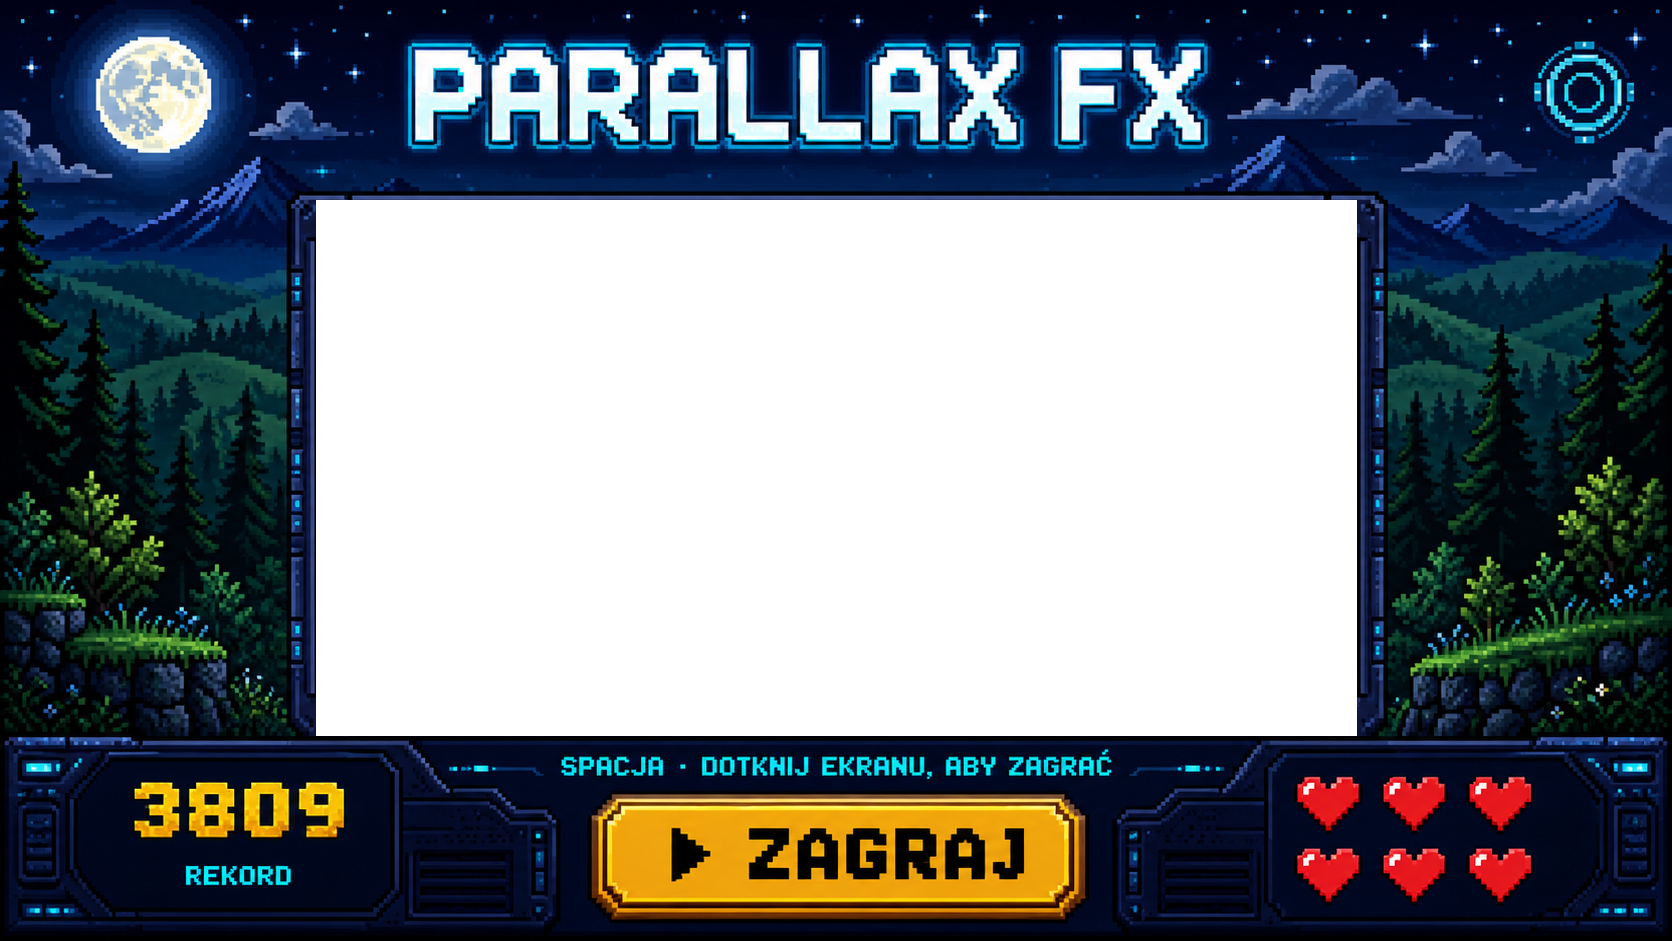
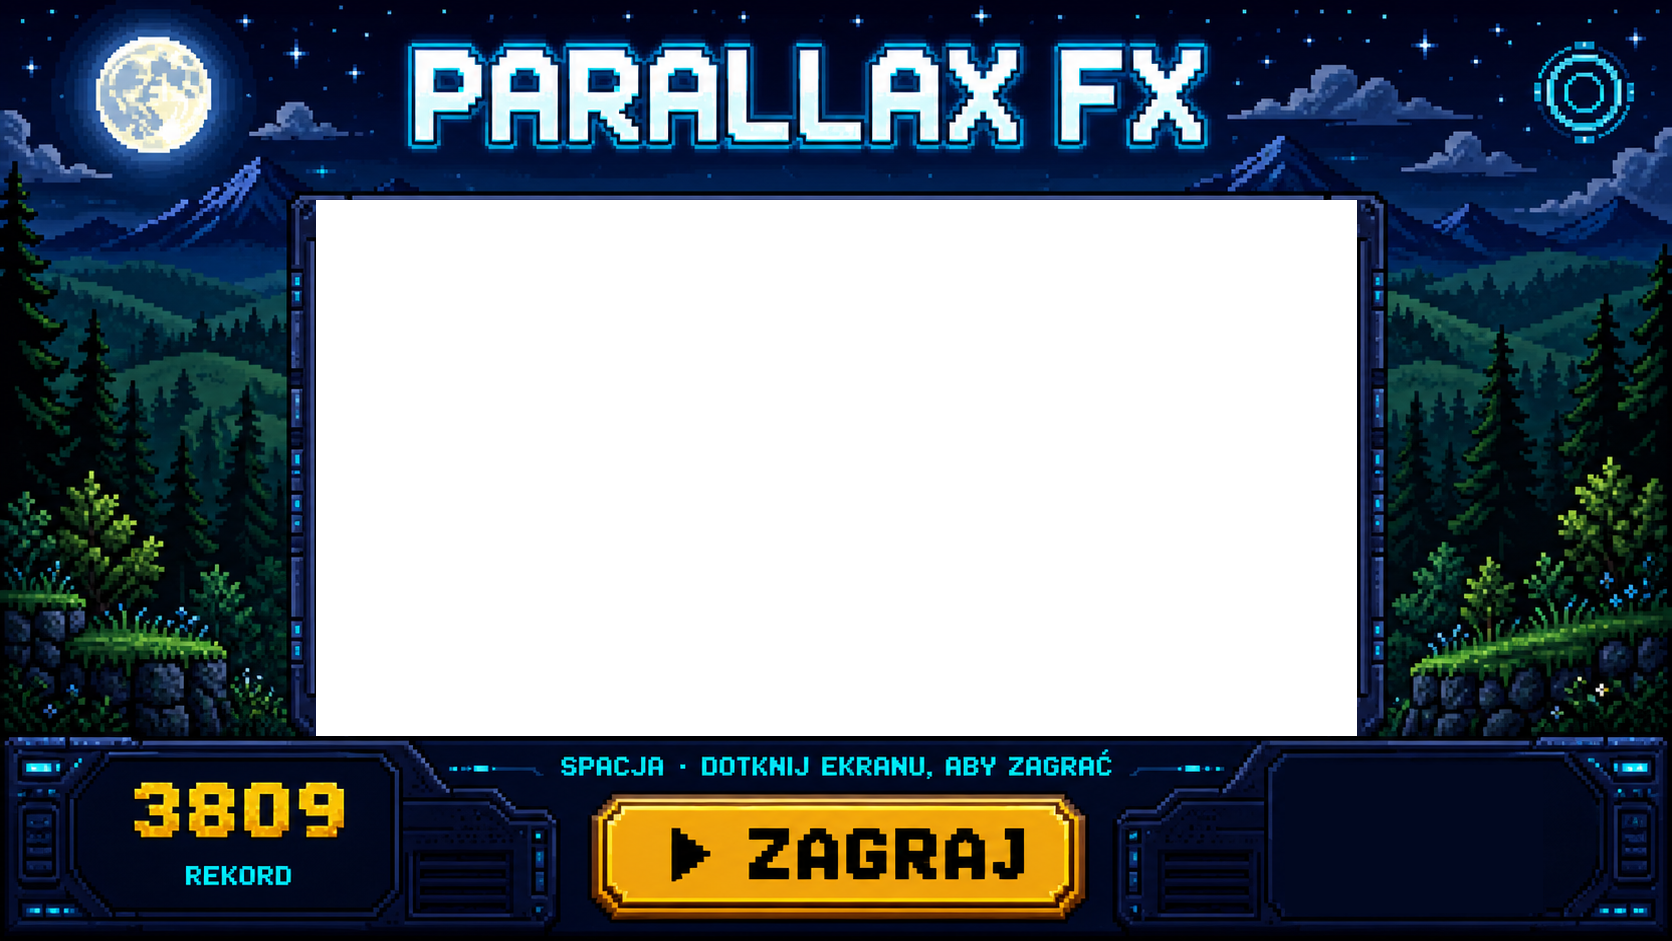
licznik zyc z png

Changed region(s): [[0.7775, 0.8013, 0.933, 0.9554]]

diff --git a/index.html b/index.html
@@ -37,6 +37,17 @@
     left: 16px;
   }
   .frame-art { position: absolute; inset: 0; width: 100%; height: 100%; z-index: 2; pointer-events: none; image-rendering: pixelated; }
+
+  /* Realny licznik żyć (serca) w miejscu, gdzie w grafice ramki (frame-art) kiedyś było
+     wypalone na sztywno 6 serc - te piksele zostały wymazane z obu PNG-ów (images/parallax-
+     frame-cutout*.png), a w ich miejsce wchodzi ta nakładka z 3 sercami (tyle ile realnie ma
+     gracz, patrz player.maxHp w player.js) zbudowana z images/artefacts/life-hearts.png i
+     zasilana prawdziwym stanem gry przez getLives() (patrz script niżej). Współrzędne %
+     odpowiadają dokładnie wymazanemu obszarowi na obrazku mobile (853x1844) - nadpisywane
+     w media query desktopowej dla parallax-frame-cutout-desktop.png (1672x941). */
+  .lives-hud { position: absolute; left: 58.38%; top: 87.20%; width: 34.82%; height: 10.85%; z-index: 2; display: flex; align-items: center; justify-content: center; gap: 4%; pointer-events: none; }
+  .lives-hud .heart-slot { height: 68%; aspect-ratio: 84 / 72; background-image: url('images/artefacts/life-hearts.png'); background-size: 300% 100%; background-position: 0 0; background-repeat: no-repeat; image-rendering: pixelated; transition: filter 0.15s ease, opacity 0.15s ease; }
+  .lives-hud .heart-slot.lost { filter: grayscale(1) brightness(0.45); opacity: 0.45; }
   #playHit { position: absolute; left: 11.9%; top: 77.5%; width: 75.9%; height: 9%; z-index: 3; cursor: pointer; animation: ctaPulse 2.2s ease-in-out infinite; }
   #playHit:hover { animation: none; filter: brightness(1.15); }
   #playHit.hidden { display: none; }
@@ -82,6 +93,12 @@
     #settingsBtn {
       display: none;
     }
+    .lives-hud {
+    left: 77.85%;
+    top: 83.3%;
+    width: 15.37%;
+    height: 10.62%;
+    }
     /* Fullscreen-w-trakcie-gry (wyżej) jest zamierzony wyłącznie dla mobile - tu wycięcie w
        ramce jest już wystarczająco duże, a zeskakiwanie do pełnego ekranu psułoby spójność
        z ekranem menu bez realnej korzyści. Te same selektory, wyżej w kaskadzie (media query
@@ -111,6 +128,11 @@
   <div class="card">
     <iframe id="gameFrame" src="game-demo.html" title="Podgląd gry"></iframe>
     <img class="frame-art" src="images/parallax-frame-cutout.png" alt="">
+    <div id="livesHud" class="lives-hud">
+      <div class="heart-slot"></div>
+      <div class="heart-slot"></div>
+      <div class="heart-slot"></div>
+    </div>
     <div id="playHit"></div>
     <div id="backBtn">← MENU</div>
     <div id="settingsBtn"><div></div></div>
@@ -120,6 +142,23 @@
   const gameFrame = document.getElementById('gameFrame');
   const playHit = document.getElementById('playHit');
   const backBtn = document.getElementById('backBtn');
+  const heartSlots = document.querySelectorAll('#livesHud .heart-slot');
+
+  // Odpytuje getLives() (game.js, wewnątrz iframe'a) co klatkę i przemalowuje serca na
+  // ramce startowej - działa zarówno w demie na ekranie menu, jak i w trakcie realnej gry
+  // (na desktopie ramka zostaje widoczna podczas gry, patrz #gameFrame.playing ~ .frame-art
+  // wyżej). Bezpośredni odczyt gameFrame.contentWindow zamiast postMessage: to ten sam
+  // origin (statyczne pliki lokalne), więc synchroniczny dostęp działa od razu.
+  function updateLivesHud() {
+    try {
+      const lives = gameFrame.contentWindow.getLives && gameFrame.contentWindow.getLives();
+      if (lives) {
+        heartSlots.forEach((el, i) => el.classList.toggle('lost', i >= lives.hp));
+      }
+    } catch (e) {}
+    requestAnimationFrame(updateLivesHud);
+  }
+  updateLivesHud();
 
   // Ten sam breakpoint co CSS "@media (min-width: 1024px) and (orientation: landscape)"
   // wyżej (desktop = ramka zostaje taka sama w trakcie gry, #gameFrame.playing nic nie

diff --git a/game.js b/game.js
@@ -410,6 +410,14 @@ function drawHeart(cx, cy, scale, color) {
     ctx.restore();
 }
 
+// `player` jest zadeklarowany przez `const` w script.js, więc (w przeciwieństwie do funkcji)
+// nie ląduje na `window` - strona startowa (index.html) nie ma do niego dostępu przez
+// gameFrame.contentWindow.player. Ta funkcja daje jej bezpieczny odczyt stanu żyć do
+// narysowania serc na ramce startowej (patrz index.html).
+function getLives() {
+    return { hp: player.hp, maxHp: player.maxHp };
+}
+
 function drawHearts() {
     const scale = 0.7, spacing = 30, margin = 20;
     const totalWidth = (player.maxHp - 1) * spacing;
